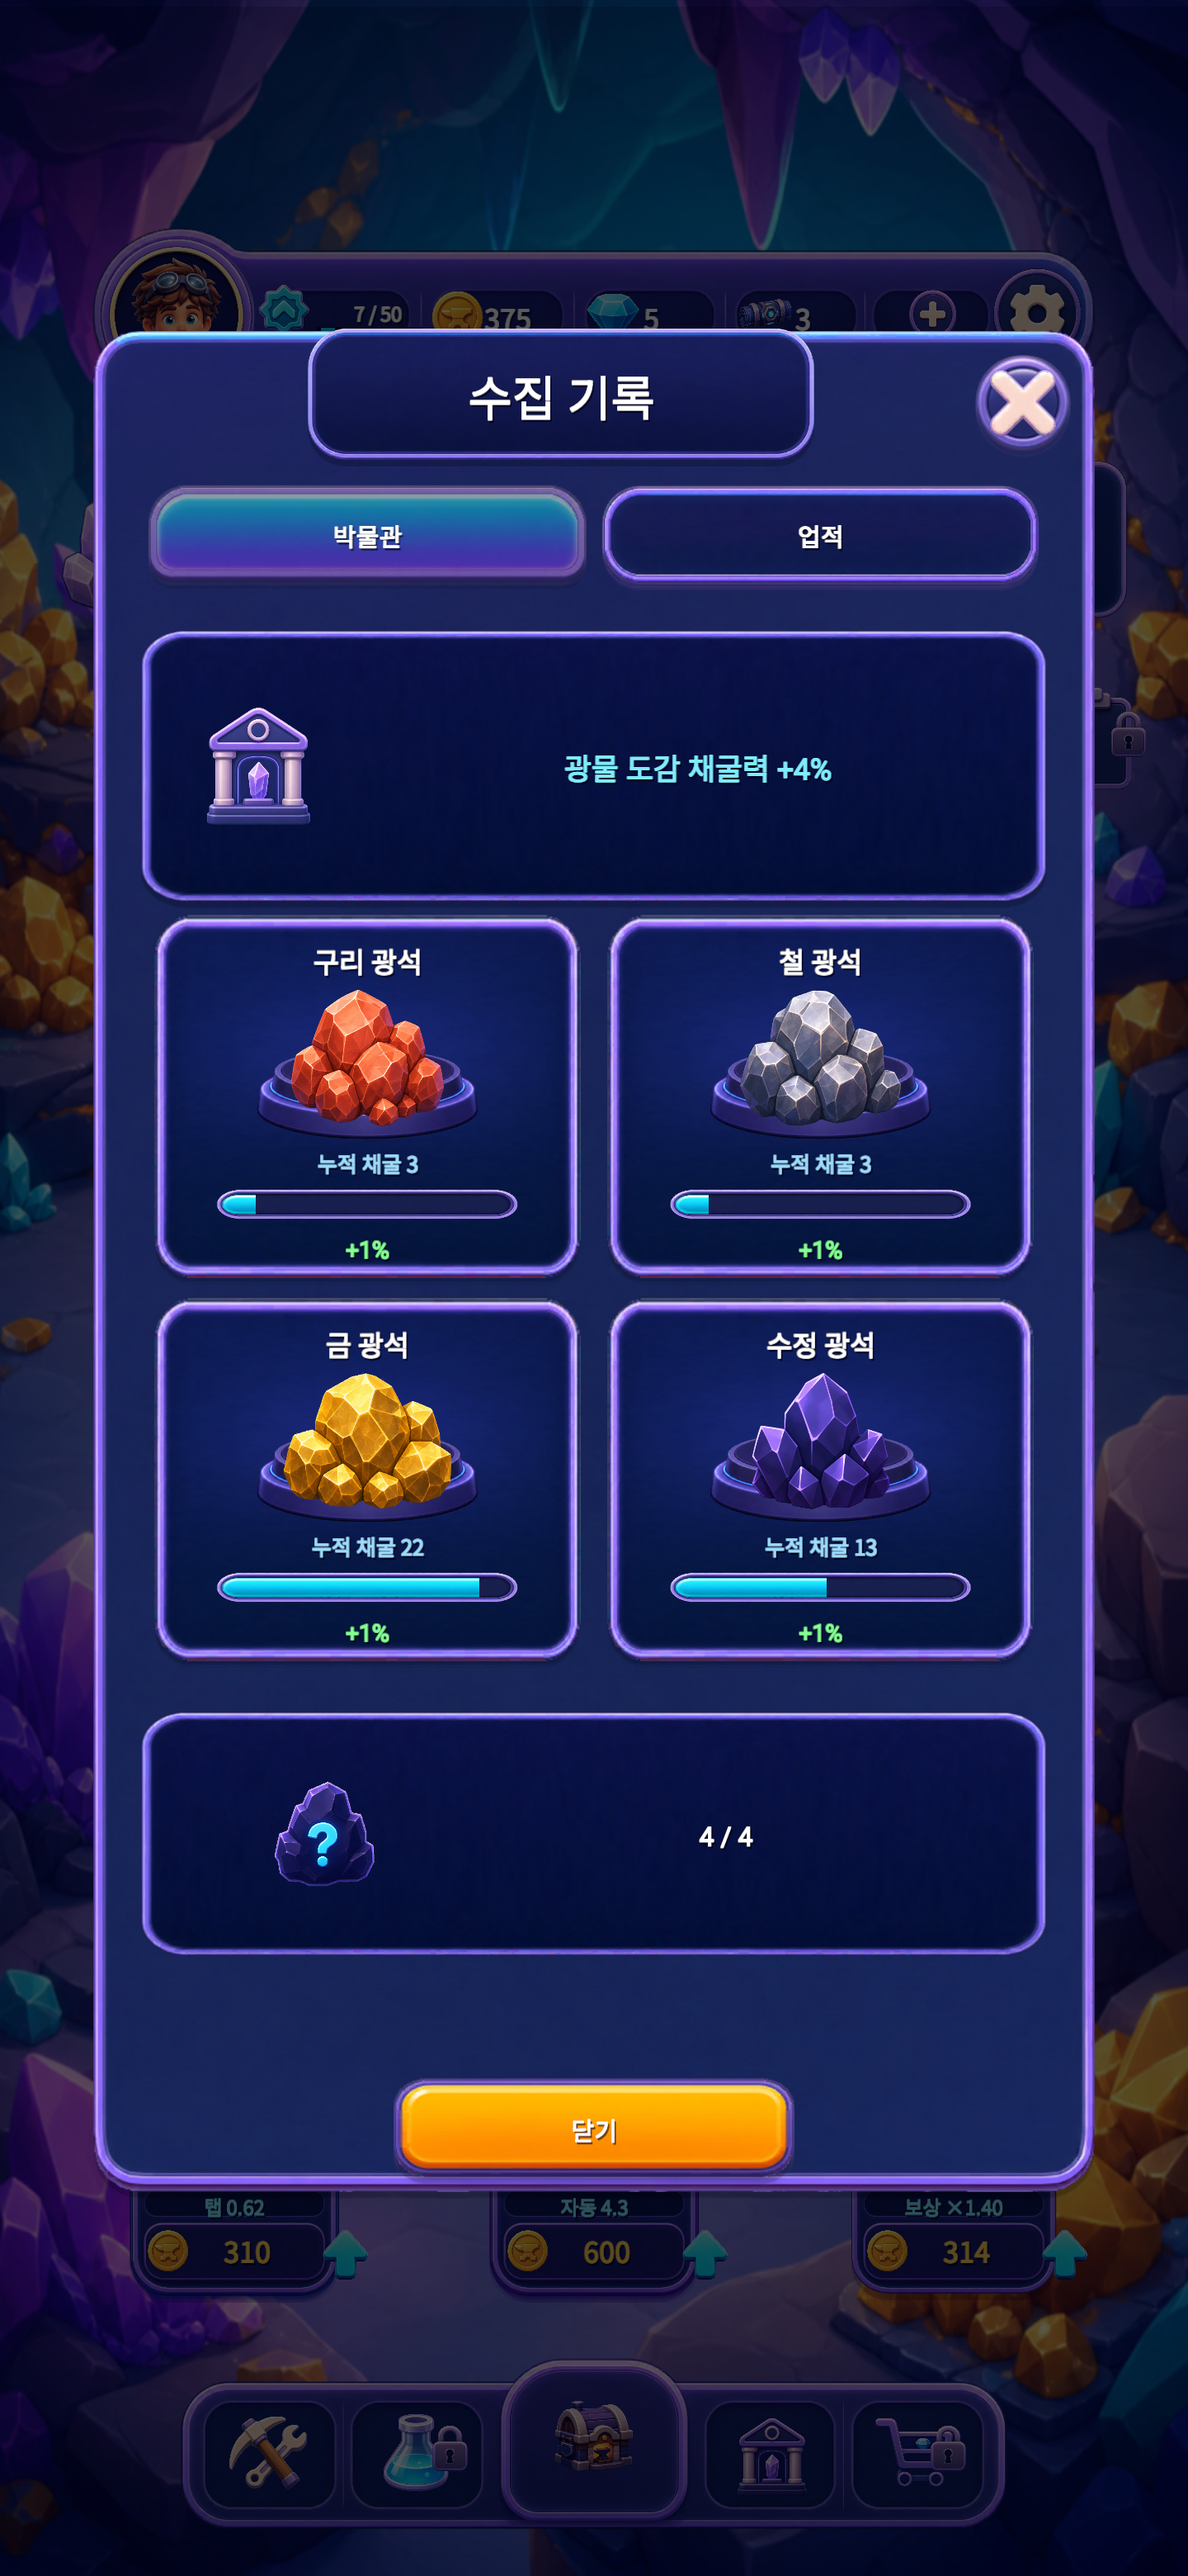
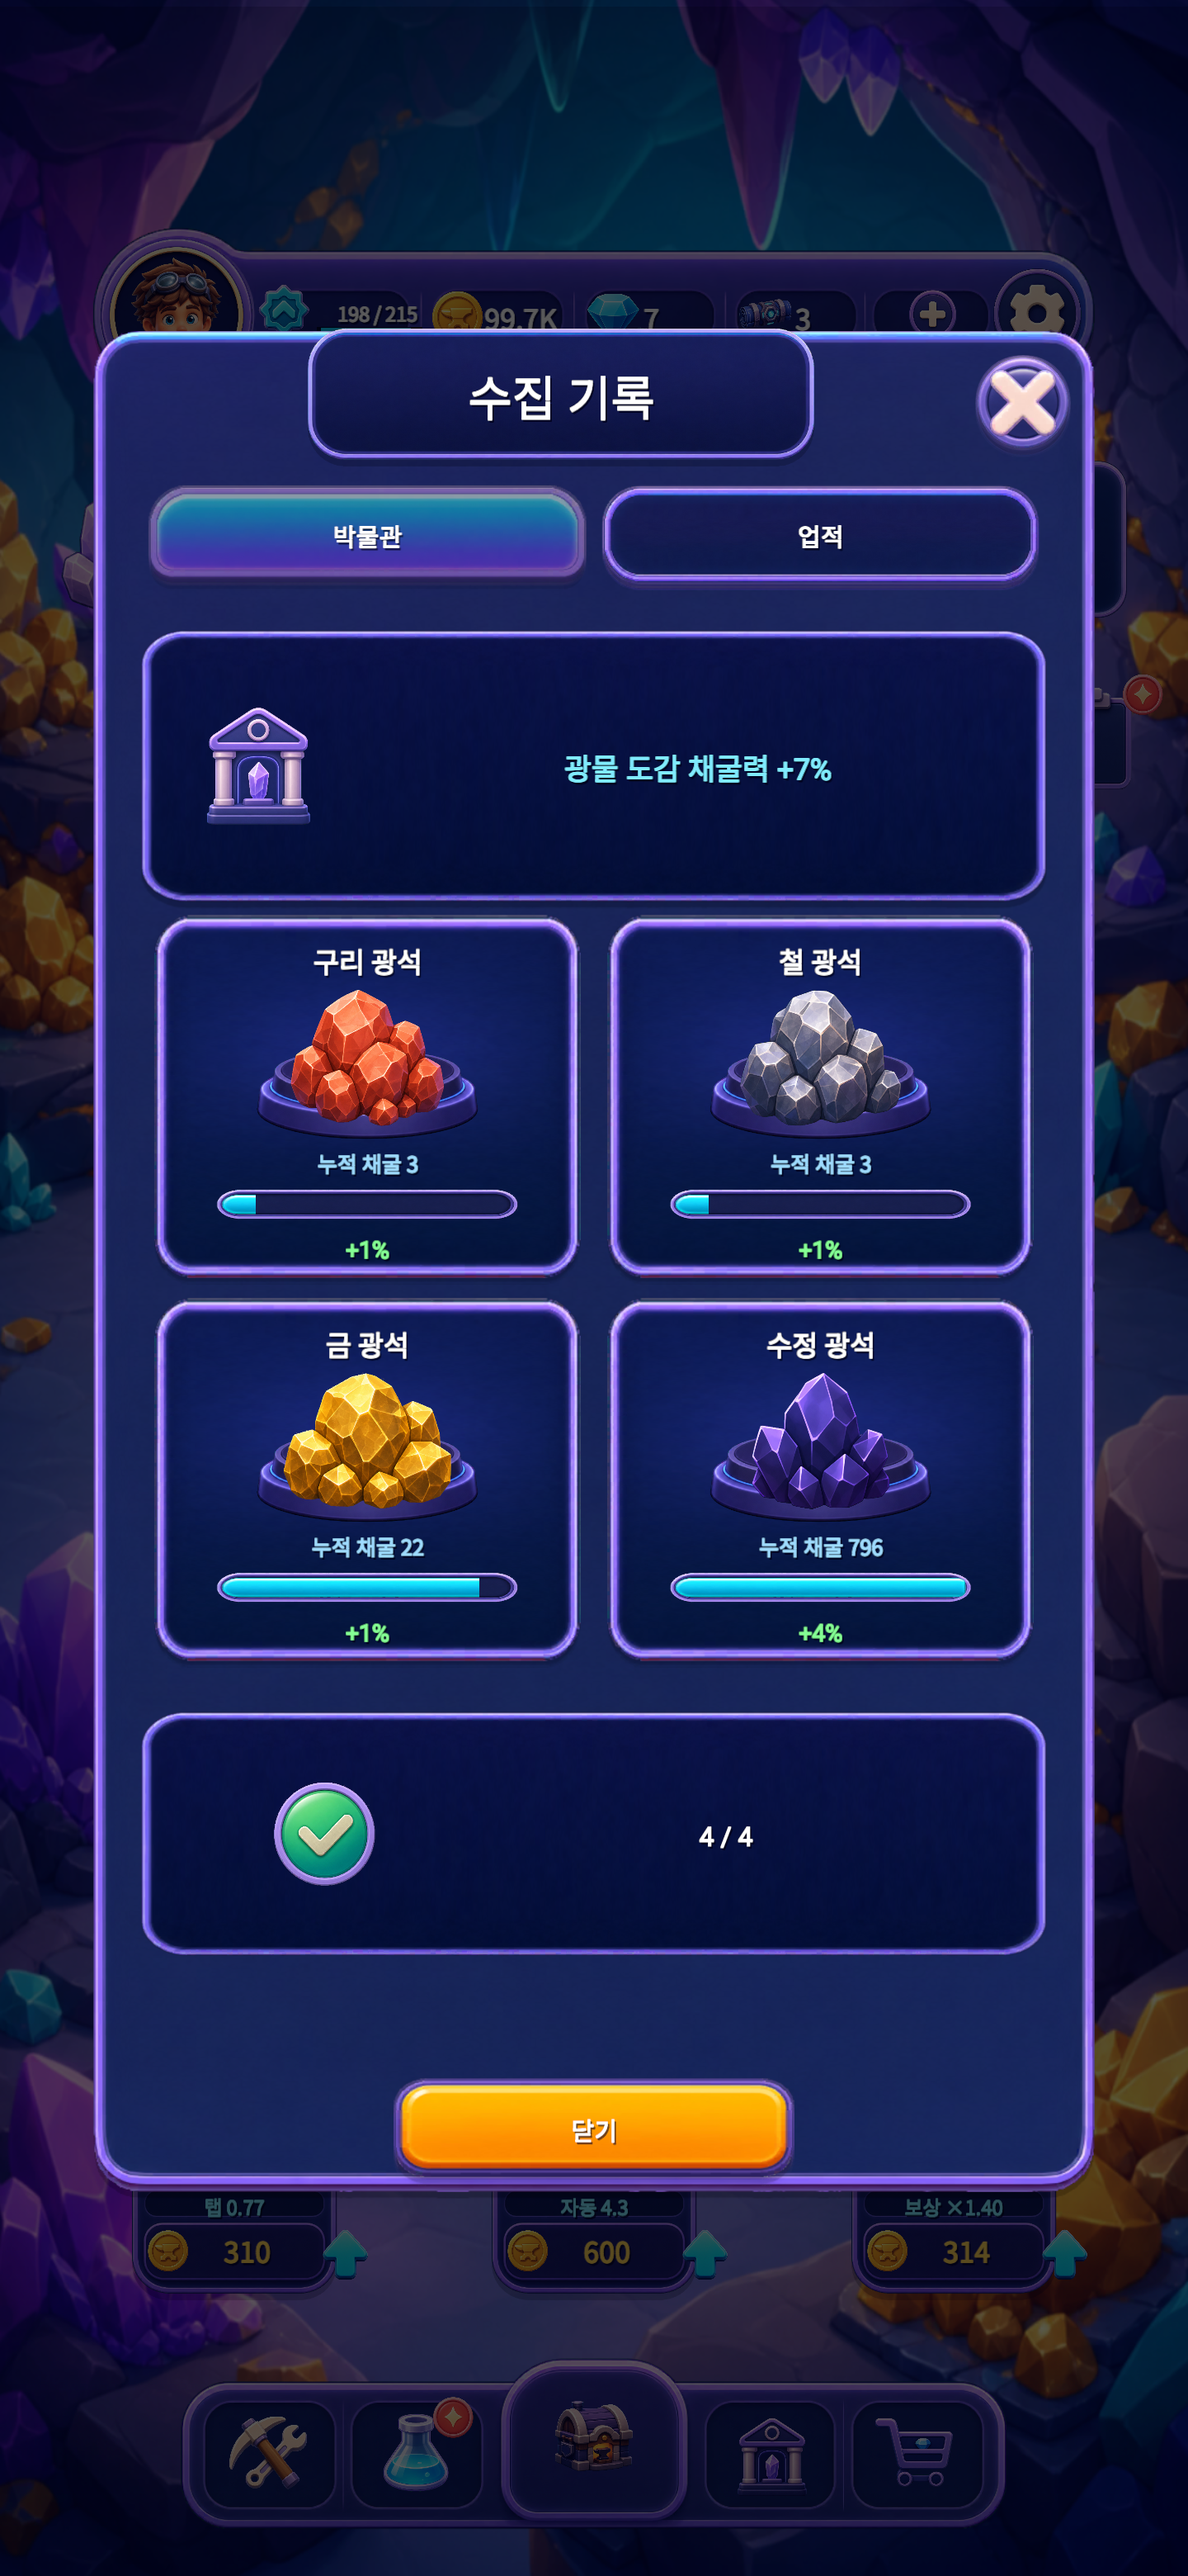
Recapture the museum shot and record the device verification
Build #22 on the device closed the three items that were left unverified: the
launcher icon renders as a masked adaptive icon rather than Unity's default, the
museum progress row now shows the completion badge beside "4 / 4", and the ad
integration reaches AdMob with the live units.

The ad request comes back "Code 3 / Account not approved yet", so the path works
and serving waits on AdMob account approval rather than on anything in the app.

diff --git a/WORKING_CONTEXT.md b/WORKING_CONTEXT.md
@@ -940,3 +940,20 @@
 - **실기기 성능 측정** (SM-S938N, 9분 연속 탭 부하): 6,435 프레임 중 놓친 프레임 2(0.03%), present-to-present 16ms 85.7%로 60fps 고정, 평균 프레임 지속 0.805ms, 배터리 온도 32.9C 변동 0, PSS 407.8MB → 398.7MB 안정. `dumpsys gfxinfo`가 `Total frames rendered: 0`을 낸 것은 HWUI만 집계하기 때문으로, Unity처럼 SurfaceView에 직접 그리는 앱은 `SurfaceFlinger --timestats`로 측정해야 한다. 발열은 USB 충전 중 측정이라 보수적인 값이다.
 - 미검증: 빌드 #17 APK를 기기에 설치해 런처 아이콘을 눈으로 확인하려 했으나 기기 연결이 끊겨(`no devices/emulators found`) 수행하지 못했다. APK는 생성해 두었고 재연결 시 설치만 하면 된다. AAB 리소스 수준 검증은 완료했다.
 - 남은 작업: 기기 재연결 후 런처 아이콘 육안 확인, Pages 활성화·알림 채널 등록·실 광고 ID·내부 테스트 업로드(모두 사용자 조치).
+
+## 수정사항 82
+
+- 기록 시각: 2026-08-09 07:10:00
+- 작업 요청 요약: 실 광고 ID 적용, 스토어 자산 규격 재확정, 기기 재연결 후 미검증 항목 해소.
+- 실 광고 ID: 앱 ID `ca-app-pub-9102736521930389~3693750260`, 보상형 `/6758897305`, 전면 `/3318345744`. 두 단위 중 어느 쪽이 보상형인지는 ID로 판별할 수 없어 사용자에게 확인한 뒤 적용했다. 바꿔 넣으면 보상 지급 위치에서 전면 광고가 뜨는데 광고 자체는 재생되므로 스모크 테스트로 걸러지지 않는다.
+- 신규 `ReleaseAdIdentifierTests` 3종: 앱 ID·광고 단위가 Google 테스트 퍼블리셔가 아닌지, 두 placement가 서로 다른 단위인지 검사. 상수가 `UNITY_ANDROID` 뒤에 있어 테스트 실행 시 정의되지 않을 수 있으므로 소스 텍스트로 검사한다.
+- 스크린샷 규격 재확정: 처음 Play 도움말의 하드 제한("긴 변이 짧은 변의 2배 이하")만 보고 1440×2880(2.0:1)으로 만들었으나, Play Console 등록정보 폼은 비율을 16:9 또는 9:16으로 명시한다. 정확히 9:16(1440×2560)으로 다시 만들어 논쟁을 없애고 프로모션 자격 조건("4개 이상 중 3개는 9:16에 1,080px 이상")도 함께 충족시켰다. 하단 내비게이션 바를 잃지 않도록 크롭 대신 전체 화면을 높이에 맞춰 축소하고 좌우 129px 여백은 같은 화면의 cover·블러·감광 배경으로 채웠다. 첫 시도인 가장자리 컬럼 늘리기는 가로 줄무늬가 보여 기각했다.
+- 데이터 보안 양식: 목적을 "광고 또는 마케팅" 하나로 안내했던 것을 Google 공식 안내 확인 후 3개(광고 또는 마케팅·분석·부정 행위 방지·보안 및 규정 준수)로 정정했다. 임시 처리는 "아니요"다. 임시 처리로 신고하면 등록정보에 표시되지 않으므로 보관되는 데이터를 감추는 잘못된 신고가 된다.
+- 기기 검증 (빌드 #22, versionCode 22, 저장 데이터 유지 업그레이드 설치):
+  - **런처 아이콘 확인 완료**. Squircle 마스킹된 adaptive icon으로 곡괭이·금 광석이 정상 표시된다. Unity 기본 아이콘이 아니다. 이전 세션에서 리소스 수준까지만 검증했던 항목을 해소했다.
+  - **박물관 진행 아이콘 수정 확인 완료**. `4 / 4` 옆이 미발견 `?`가 아니라 초록 완료 배지다. 스토어 스크린샷도 이 빌드로 재캡처했다.
+  - **광고 통합 경로 확인**. 실 광고 단위로 요청이 나가고 AdMob이 구조화된 응답을 반환했다. 결과는 `Code 3 / "Account not approved yet."`으로, 통합 결함이 아니라 AdMob 계정 승인 미완이다. 계정 승인 후 서빙이 시작된다.
+  - AdMob 테스트 기기 ID `2C1684FC19DC2843EF4E829771E072F6`을 logcat에서 추출했다. 실 단위로 기기 테스트 전 AdMob에 등록해야 무효 트래픽 정지를 피한다.
+  - 크래시 0건.
+- 발견한 미해결 항목: 런처에 표시되는 앱 이름이 `productName`을 그대로 써서 `PocketForge`(공백 없음)로 나온다. Play 스토어 이름과 별개로 기기에 보이는 이름이며, 최소한 공백을 넣거나 언어별 런처 이름을 Android 리소스로 현지화할지 결정이 필요하다.
+- 프로덕션 요건 확인: Play Console이 프로덕션 액세스에 비공개 테스트 테스터 12명 이상·14일 이상을 요구한다. 내부 테스트는 이 요건에 카운트되지 않는다.

diff --git a/docs/store-listing.md b/docs/store-listing.md
@@ -147,7 +147,7 @@ Crack your first ore now.
 
 태블릿 스크린샷은 불필요하다. 필수 문구가 "휴대전화나 태블릿 스크린샷을 2개 이상"이므로 휴대전화만 채우면 충족된다. 세로 고정 폰 전용 게임이다.
 
-**업로드 시 주의**: `screenshot_04_museum.png`은 수정 전 빌드(#6) 캡처라 도감 완성(`4 / 4`) 옆에 미발견 `?` 아이콘이 찍혀 있다. 이 결함은 이후 수정됐다. 기기 재연결 후 재캡처 전까지는 나머지 4장만 올린다(프로모션 자격 4장 조건은 그대로 충족).
+박물관 샷은 2026-08-09에 빌드 #22(수정 후)로 재캡처했다. `4 / 4` 옆이 미발견 `?`가 아니라 초록 완료 배지로 나온다. 5장 모두 업로드 가능하다.
 
 인게임 런처 아이콘 (2026-08-08 해결):
 
